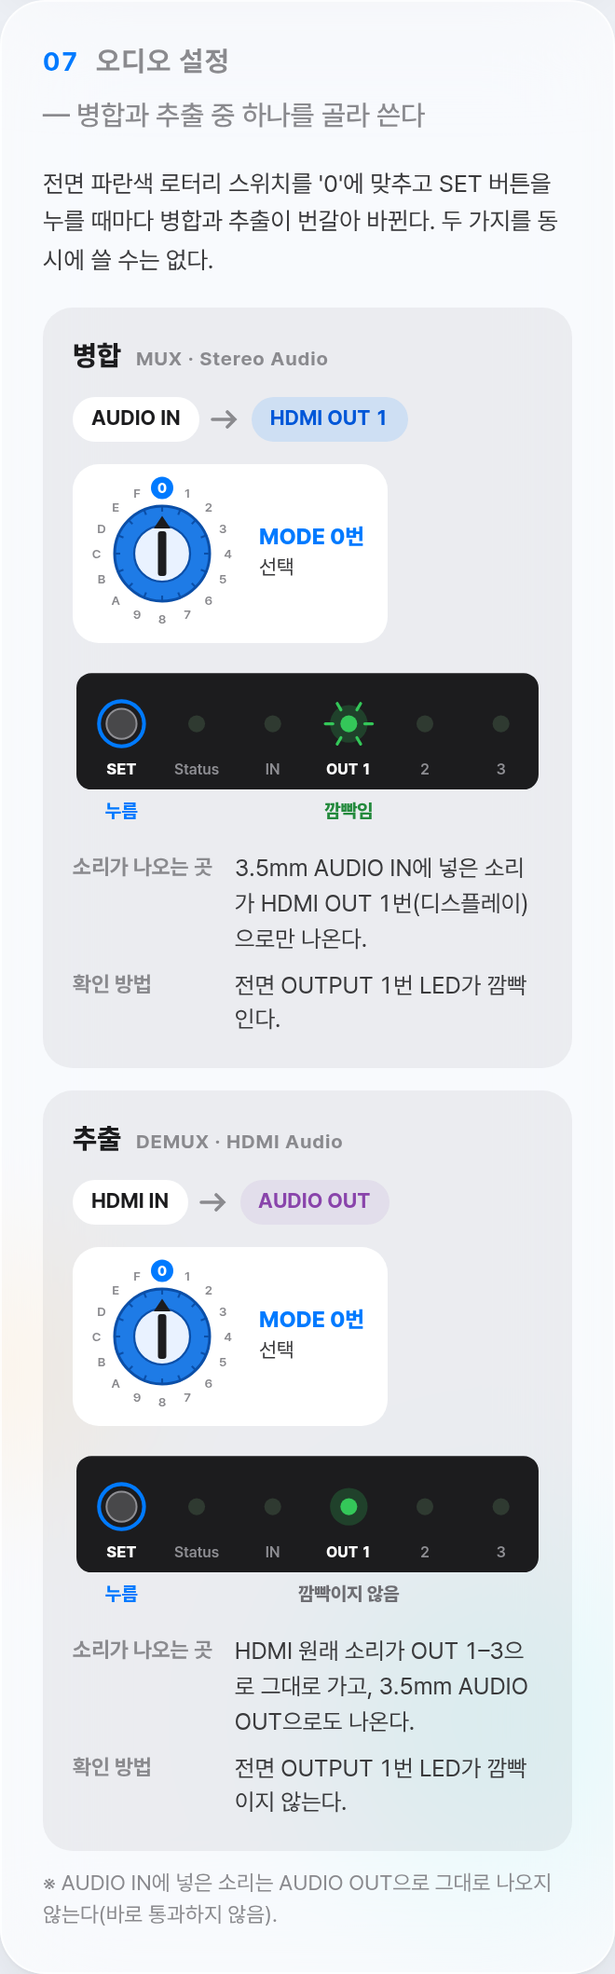
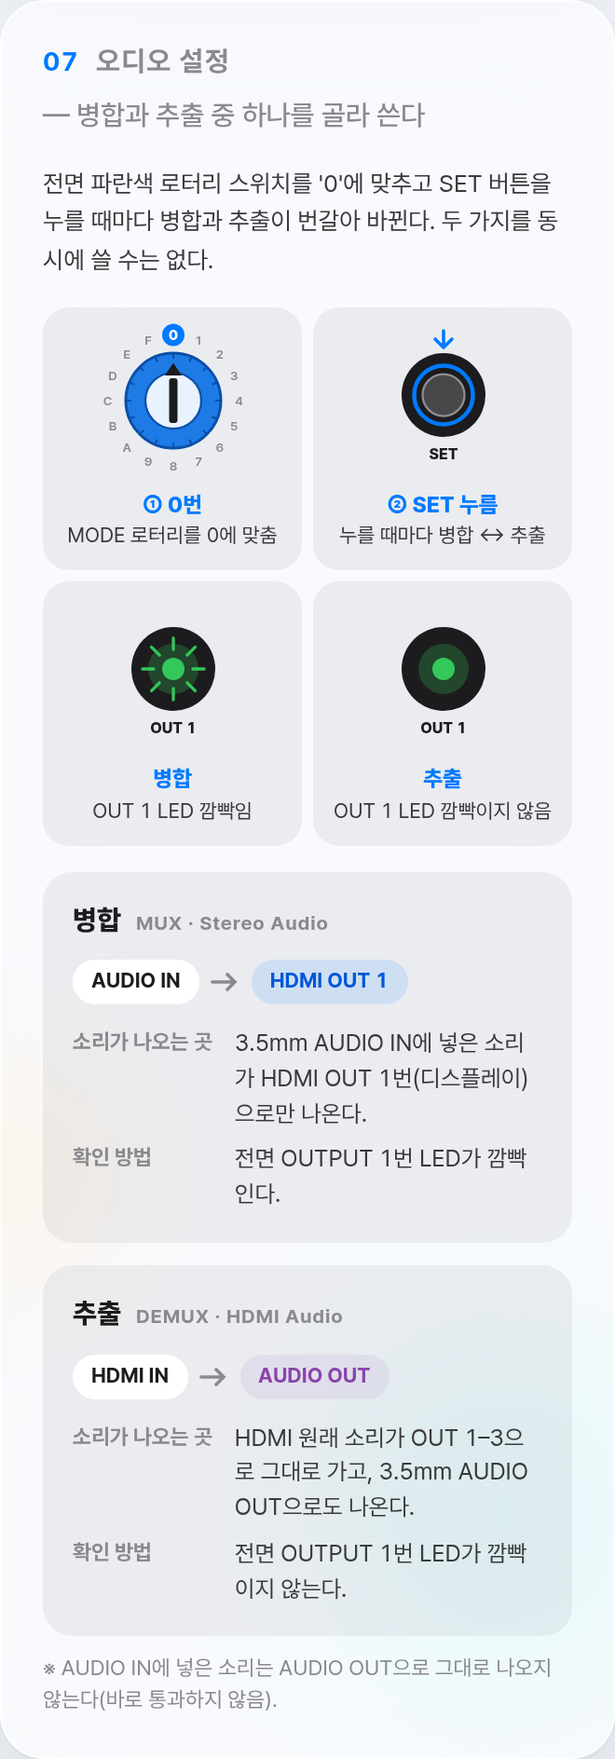
style: HD-13U 오디오 설정을 EDID 대표 설정과 같은 칸 4개로 통일
- ① MODE 로터리 0번(분배기 EDID 로터리 그림 그대로) → ② SET 누름 → 병합 OUT 1 깜빡임 → 추출 OUT 1 깜빡이지 않음
- 병합·추출 칸 안의 어두운 패널 그림과 쓰지 않는 rotaryGraphic 선택(dark·box) 삭제
- e2e: 오디오 순서 칸 4개·깜빡임 1개·화면 읽기 이름 확인, EDID 로터리 확인은 EDID 카드로 한정

Claude-Session: https://claude.ai/code/session_01V3dms2CC6NHWtyRSKKrJnV

diff --git a/src/products.js b/src/products.js
@@ -529,7 +529,7 @@
     // ---- 전면 컨트롤 강조(EDID 로터리 스위치 등, 0.35). edidSwitch가 있을 때만 전체 폭 카드로 보여준다 ----
     // ---- EDID 로터리 대표 설정 그림(0.59, 사용자 요청 "EDID 로터리 스위치도 대표적인 것을 DIP 스위치처럼 예상 이미지 만들어봐줘") ----
     // 제품 사진과 같은 파란 16단(0~F) 로터리를 그리고, 화살표가 고른 코드를 가리키게 한다. 0이 위쪽이고 시계 방향으로 1, 2 … F 순서다.
-    // opts.name: 화면 읽기 이름(기본 "EDID 로터리", 오디오 설정은 "MODE 로터리"). opts.dark·opts.box: 어두운 패널 안에 넣을 때 쓰는 선택(현재 미사용).
+    // opts.name: 화면 읽기 이름(기본 "EDID 로터리", 오디오 설정은 "MODE 로터리").
     function rotaryGraphic(code,opts={}){
       const idx=parseInt(code,16);
       const S=112,c=S/2,labels='0123456789ABCDEF'.split('');
@@ -539,8 +539,7 @@
       body+=`<circle cx="${c}" cy="${c}" r="20" fill="#E9F2FF" stroke="#0B4FA8" stroke-width="1.5"/>`;
       const deg=idx*22.5;
       body+=`<g transform="rotate(${deg} ${c} ${c})"><rect x="${c-3}" y="${c-16}" width="6" height="32" rx="2" fill="#1C1C1E"/><path d="M${c} ${c-27}l-6 9h12z" fill="#1C1C1E"/></g>`;
-      labels.forEach((label,i)=>{const [x,y]=at(i,47);const on=i===idx;body+=on?`<circle cx="${x.toFixed(1)}" cy="${y.toFixed(1)}" r="8" fill="#007AFF"/><text x="${x.toFixed(1)}" y="${(y+3.5).toFixed(1)}" text-anchor="middle" font-size="10" font-weight="800" fill="#fff">${label}</text>`:`<text x="${x.toFixed(1)}" y="${(y+3.2).toFixed(1)}" text-anchor="middle" font-size="9" font-weight="600" fill="${opts.dark?'#C7C7CC':'#8A8A8E'}">${label}</text>`;});
-      if(opts.box){const [bx,by,bs]=opts.box;return `<svg x="${bx}" y="${by}" width="${bs}" height="${bs}" viewBox="0 0 ${S} ${S}">${body}</svg>`;}
+      labels.forEach((label,i)=>{const [x,y]=at(i,47);const on=i===idx;body+=on?`<circle cx="${x.toFixed(1)}" cy="${y.toFixed(1)}" r="8" fill="#007AFF"/><text x="${x.toFixed(1)}" y="${(y+3.5).toFixed(1)}" text-anchor="middle" font-size="10" font-weight="800" fill="#fff">${label}</text>`:`<text x="${x.toFixed(1)}" y="${(y+3.2).toFixed(1)}" text-anchor="middle" font-size="9" font-weight="600" fill="#8A8A8E">${label}</text>`;});
       return `<svg viewBox="0 0 ${S} ${S}" width="${S}" height="${S}" role="img" aria-label="${esc(opts.name||'EDID 로터리')} ${esc(code)}번">${body}</svg>`;
     }
     // 대표 설정: 기본값 코드(edidSwitch.default의 "0 = …" 앞 글자)와 자주 쓰는 코드(table[].highlight)를 코드 순으로 최대 4개 보여준다.
@@ -605,28 +604,30 @@
     }
     // ---- 오디오 설정(병합 MUX·추출 DEMUX 중 선택, HD-13U). 매뉴얼 문장을 "이럴 때·연결·소리가 나오는 곳·확인 방법"으로 풀어 두 칸으로 보여준다 ----
     // HDS-21U·HDS-42MU는 딥 스위치 1번으로 고르므로 이 카드 대신 딥 스위치 설정 카드에서 함께 설명한다(사용자 요청 2026-09-27).
-    // ---- 오디오 설정 전면 패널 그림(0.61, 사용자 요청 "HD-13U 07 오디오 설정 부분을 DIP 이미지처럼 불 켜짐을 만들어줘") ----
-    // 로터리를 panel.rotary.value에 맞추고 SET 버튼을 누르는 모습과, 확인용 LED(panel.target)가 깜빡이는지(mode.led "blink") 켜진 채인지("steady")를 그린다.
+    // ---- 오디오 설정 순서 그림(0.61, 사용자 요청 "DIP 이미지처럼 불 켜짐", "분배기 로터리 이미지 그대로 활용해줘, 통일감이 없어") ----
+    // EDID 설정 카드의 대표 설정 줄(rt-pg-rotary-row·rt-pg-rotary 칸, 112px 그림, 파란 글자 캡션)을 그대로 쓴다.
+    // ① MODE 로터리를 panel.rotary.value에 맞춤 → ② SET 누름 → ③④ 모드별 확인 LED(panel.target)가 깜빡임(led "blink") / 깜빡이지 않음("steady").
     // 깜빡임은 CSS 애니메이션(rt-pg-led-blink)으로 보여주고, 움직임 줄이기 설정이나 인쇄에서도 알 수 있게 LED 둘레에 빛 표시를 함께 그린다.
-    function audioPanelGraphic(panel,mode){
-      const leds=panel.leds||[];
-      // 로터리는 EDID 설정 카드의 대표 설정 그림과 똑같은 밝은 칸(rt-pg-rotary)으로 따로 두고, 어두운 패널에는 SET 버튼과 LED만 그린다(사용자 요청 2026-09-27 "이 느낌 로터리 써줘").
-      const value=String(panel.rotary?.value??'0').toUpperCase();
-      const W=250,H=92,py=8,ph=62,cy=py+ph/2-4,labelY=py+ph-8,bx=26;
-      let body=`<rect x="2" y="${py}" width="${W-4}" height="${ph}" rx="8" fill="#1C1C1E"/>`;
-      body+=`<circle cx="${bx}" cy="${cy}" r="8" fill="#48484A" stroke="#8E8E93" stroke-width="1"/><circle cx="${bx}" cy="${cy}" r="12" fill="none" stroke="#007AFF" stroke-width="2"/>`;
-      body+=`<text x="${bx}" y="${labelY}" text-anchor="middle" font-size="8.5" font-weight="800" fill="#fff">${esc(panel.button||'SET')}</text><text x="${bx}" y="${py+ph+15}" text-anchor="middle" font-size="10" font-weight="800" fill="#007AFF">누름</text>`;
-      const x0=66,gap=(W-22-x0)/Math.max(1,leds.length-1);
-      leds.forEach((label,i)=>{
-        const x=x0+i*gap,on=label===panel.target,blink=on&&mode.led==='blink';
-        if(on)body+=`<circle cx="${x}" cy="${cy}" r="10" fill="#34C759" opacity=".22"/>`;
-        if(blink)body+=`<g stroke="#34C759" stroke-width="1.6" stroke-linecap="round">${[0,60,120,180,240,300].map(a=>{const r1=8.5,r2=12.5,rad=a*Math.PI/180;return `<path d="M${(x+r1*Math.cos(rad)).toFixed(1)} ${(cy+r1*Math.sin(rad)).toFixed(1)}L${(x+r2*Math.cos(rad)).toFixed(1)} ${(cy+r2*Math.sin(rad)).toFixed(1)}"/>`}).join('')}</g>`;
-        body+=`<circle cx="${x}" cy="${cy}" r="4.5" fill="${on?'#34C759':'#2F3A31'}"${blink?' class="rt-pg-led-blink"':''}/>`;
-        body+=`<text x="${x}" y="${labelY}" text-anchor="middle" font-size="8" font-weight="${on?800:600}" fill="${on?'#fff':'#8E8E93'}">${esc(label)}</text>`;
-        if(on)body+=`<text x="${x}" y="${py+ph+15}" text-anchor="middle" font-size="10" font-weight="800" fill="${blink?'#248A3D':'#6E6E73'}">${blink?'깜빡임':'깜빡이지 않음'}</text>`;
-      });
-      const label=`${panel.rotary?.label||'MODE'} 로터리 ${value}번 + ${panel.button||'SET'} 누름 → ${panel.target} LED ${mode.led==='blink'?'깜빡임':'깜빡이지 않음'}`;
-      return `<div class="rt-pg-audio-panelrow" role="img" aria-label="${esc(label)}"><figure class="rt-pg-rotary rt-pg-rotary-mini">${rotaryGraphic(value,{name:`${panel.rotary?.label||'MODE'} 로터리`})}<figcaption><em>${esc(panel.rotary?.label||'MODE')} ${esc(value)}번</em>선택</figcaption></figure><span class="rt-pg-audio-plus" aria-hidden="true">+</span><svg class="rt-pg-audio-panel" viewBox="0 0 ${W} ${H}" aria-hidden="true">${body}</svg></div>`;
+    function setButtonGraphic(label){
+      const S=112,c=S/2;
+      const body=`<circle cx="${c}" cy="${c-4}" r="30" fill="#1C1C1E"/><circle cx="${c}" cy="${c-4}" r="15" fill="#48484A" stroke="#8E8E93" stroke-width="1.5"/><circle cx="${c}" cy="${c-4}" r="21" fill="none" stroke="#007AFF" stroke-width="3"/><path d="M${c} ${c-50}v12M${c-6} ${c-44}l6 6 6-6" fill="none" stroke="#007AFF" stroke-width="2.4" stroke-linecap="round" stroke-linejoin="round"/><text x="${c}" y="${c+42}" text-anchor="middle" font-size="11" font-weight="800" fill="#1C1C1E">${esc(label)}</text>`;
+      return `<svg viewBox="0 0 ${S} ${S}" width="${S}" height="${S}" role="img" aria-label="${esc(label)} 버튼 누름">${body}</svg>`;
+    }
+    function ledGraphic(label,blink){
+      const S=112,c=S/2,cy=c-4;
+      let body=`<circle cx="${c}" cy="${cy}" r="30" fill="#1C1C1E"/><circle cx="${c}" cy="${cy}" r="18" fill="#34C759" opacity=".25"/>`;
+      if(blink)body+=`<g stroke="#34C759" stroke-width="2.2" stroke-linecap="round">${[0,45,90,135,180,225,270,315].map(a=>{const r1=14,r2=22,rad=a*Math.PI/180;return `<path d="M${(c+r1*Math.cos(rad)).toFixed(1)} ${(cy+r1*Math.sin(rad)).toFixed(1)}L${(c+r2*Math.cos(rad)).toFixed(1)} ${(cy+r2*Math.sin(rad)).toFixed(1)}"/>`}).join('')}</g>`;
+      body+=`<circle cx="${c}" cy="${cy}" r="8" fill="#34C759"${blink?' class="rt-pg-led-blink"':''}/><text x="${c}" y="${c+42}" text-anchor="middle" font-size="11" font-weight="800" fill="#1C1C1E">${esc(label)}</text>`;
+      return `<svg viewBox="0 0 ${S} ${S}" width="${S}" height="${S}" role="img" aria-label="${esc(label)} LED ${blink?'깜빡임':'깜빡이지 않음'}">${body}</svg>`;
+    }
+    function audioStepsRow(am){
+      const pn=am.panel;
+      if(!pn)return '';
+      const value=String(pn.rotary?.value??'0').toUpperCase(),rlabel=pn.rotary?.label||'MODE';
+      const tiles=[`<figure class="rt-pg-rotary">${rotaryGraphic(value,{name:`${rlabel} 로터리`})}<figcaption><em>① ${esc(value)}번</em>${esc(rlabel)} 로터리를 ${esc(value)}에 맞춤</figcaption></figure>`,
+        `<figure class="rt-pg-rotary">${setButtonGraphic(pn.button||'SET')}<figcaption><em>② ${esc(pn.button||'SET')} 누름</em>누를 때마다 병합 ↔ 추출</figcaption></figure>`,
+        ...am.modes.filter(mode=>mode.led).map(mode=>`<figure class="rt-pg-rotary rt-pg-audio-step-${mode.led}">${ledGraphic(pn.target,mode.led==='blink')}<figcaption><em>${esc(mode.title)}</em>${esc(pn.target)} LED ${mode.led==='blink'?'깜빡임':'깜빡이지 않음'}</figcaption></figure>`)];
+      return `<div class="rt-pg-rotary-row rt-pg-audio-steps" aria-label="오디오 병합·추출 전환 순서">${tiles.join('')}</div>`;
     }
     function audioMuxSection(item){
       const am=item.audioMux;
@@ -635,10 +636,10 @@
       const arrow='<svg viewBox="0 0 16 10" width="16" height="10" aria-hidden="true"><path d="M1 5h12M9 1l4 4-4 4" fill="none" stroke="currentColor" stroke-width="1.8" stroke-linecap="round"/></svg>';
       return `<section class="rt-pg-card rt-pg-audio" style="margin-top:18px"><h2><span class="rt-pg-idx">${idx}</span>오디오 설정 <span class="rt-pg-note">— 병합과 추출 중 하나를 골라 쓴다</span></h2>
         ${am.howTo?`<p class="rt-pg-audio-how">${esc(am.howTo)}</p>`:''}
+        ${audioStepsRow(am)}
         <div class="rt-pg-audio-modes">${am.modes.map(mode=>`<div class="rt-pg-audio-mode rt-pg-audio-${mode.name==='MUX'?'mux':'demux'}">
           <div class="rt-pg-audio-head"><b>${esc(mode.title)}</b><small>${esc(mode.name)}${mode.setting?` · ${esc(mode.setting)}`:''}</small></div>
           ${mode.flow?.length?`<div class="rt-pg-audio-flow">${mode.flow.map(step=>`<span>${esc(step)}</span>`).join(arrow)}</div>`:''}
-          ${am.panel&&mode.led?audioPanelGraphic(am.panel,mode):''}
           <dl>${mode.rows.map(row=>`<dt>${esc(row.label)}</dt><dd>${esc(row.text)}</dd>`).join('')}</dl>
         </div>`).join('')}</div>
         ${am.note?`<p class="rt-pg-hint">※ ${esc(am.note)}</p>`:''}

diff --git a/src/styles.css b/src/styles.css
@@ -857,13 +857,9 @@ html{background:#f3f3ef}body{margin:0;padding:24px 16px;font-family:Arial,'Malgu
 #rtcom-design .rt-pg-spec-table th,#rtcom-design .rt-pg-spec-table td{padding-top:6px;padding-bottom:6px}
 #rtcom-design .rt-pg-spec-table td .rt-pg-note-line{margin-top:2px}
 
-/* 0.61 오디오 설정 전면 패널 그림(LED 불 켜짐) */
-#rtcom-design .rt-pg-audio-panelrow{display:flex;align-items:center;gap:8px;margin:0 0 12px}
-#rtcom-design .rt-pg-rotary-mini{flex:0 0 auto;background:#fff;padding:8px 8px 10px}
-#rtcom-design .rt-pg-rotary-mini svg{width:96px;height:96px}
-#rtcom-design .rt-pg-audio-plus{flex:0 0 auto;font-size:18px;font-weight:800;color:var(--pg-muted)}
-#rtcom-design .rt-pg-audio-panel{display:block;flex:1 1 auto;min-width:0;max-width:300px;height:auto}
-@media(max-width:720px){#rtcom-design .rt-pg-audio-panelrow{flex-wrap:wrap}#rtcom-design .rt-pg-audio-plus{display:none}#rtcom-design .rt-pg-audio-panel{flex-basis:100%;max-width:none}#rtcom-design .rt-pg-rotary-mini{flex-direction:row;gap:10px;padding:6px 12px 6px 6px;text-align:left}#rtcom-design .rt-pg-rotary-mini svg{width:84px;height:84px}}
+/* 0.61 오디오 설정 순서 그림(EDID 대표 설정 칸과 같은 모양: 로터리 → SET → LED 불 켜짐) */
+#rtcom-design .rt-pg-audio-steps{margin:0 0 14px}
+@media(max-width:720px){#rtcom-design .rt-pg-audio-steps{grid-template-columns:repeat(2,1fr)}}
 #rtcom-design .rt-pg-led-blink{animation:rt-pg-led-blink 1s steps(1,end) infinite}
 @keyframes rt-pg-led-blink{50%{fill:#2F3A31}}
 @media (prefers-reduced-motion:reduce){#rtcom-design .rt-pg-led-blink{animation:none}}

diff --git a/CLAUDE.md b/CLAUDE.md
@@ -50,7 +50,7 @@
 
 - 현재 화면 버전은 `index.html`의 우측 상단 표기와 `README.md`에 함께 기록합니다.
 - 원본 `main`에 기능 묶음을 병합할 때 마이너 버전을 올리고, 같은 커밋에서 `CHANGELOG.md`를 갱신합니다.
-- 구성기 단일 화면 전환은 `0.7.0`, Analog Way 방식 화면 개편은 `0.8.0`, 전송기 자동 연동은 `0.9.0`, HDMI 카드 PSE 쌍 연장은 `0.10.0`, SPX 매뉴얼 사진 슬롯은 `0.11.0`, VDM-256X 추가는 `0.12.0`, VDM 매뉴얼 후면 도면 슬롯은 `0.13.0`, 휴대폰 슬롯 겹침·뒤로가기 수정은 `0.14.0`, VDM 전면 도면은 `0.15.0`, 사진 슬롯 판넬 잘림 수정은 `0.16.0`, 장착 슬롯 번호표 숨김·구성 요약 카드 확대는 `0.17.0`, XDM 판넬 손나사 잘림 수정·VDM 전송기 연동·로고 홈 이동 확인은 `0.18.0`, 알티컴 공개 제품정보(29종) 재게시는 `0.19.0`, 제품정보 상세 표기를 에이앤미디어(antez.co.kr) 방식으로 정리한 것은 `0.20.0`, 데이터 기반 연결 다이어그램 추가는 `0.21.0`, 제품 사양 표를 구분·사양 2단으로 정리한 것은 `0.22.0`, 휴대폰 가로 스크롤(긴 출처 경로) 수정은 `0.23.0`, HD-14U·HD-18U 모델명 정정과 VDM CT102-U·FT102-U 계열 제외는 `0.24.0`, 제조사 카탈로그 원본 연결 다이어그램 적용은 `0.25.0`, 제품 사양 표 디자인(분류 색 점) 다듬기는 `0.26.0`, 새 카탈로그로 나머지 25종 재검증·XDM-CTR100 조합 다이어그램은 `0.27.0`, 연결 다이어그램 가로 스크롤 안내(그러데이션 표시)와 XDM-CTR100 케이블별 최대 전송거리(CI6522 80m) 추가는 `0.28.0`, VDM HOS4-U·HOS4S-UW 카드 설명을 스위칭 방식(일반·심리스)으로 정리하고 XDM-288을 구성기에서 삭제한 것은 `0.29.0`, XDM-CTR100 연결 다이어그램 조합 1을 매트릭스 카드 직결 배선으로 바로잡고 제조사 원본 다이어그램에 출처 캡션·표기 다름 경고를 추가하고 6개 제품과 SPX 다이어그램을 다시 잘라낸 것은 `0.30.0`, VDM 전송기 4종(CT101-U/CR101-U·CT103-U-H/CR103-U·FT101-U/FR101-U·FT103-U-H/FR103-U)에 RS-232 단자 행을 추가하고 이 4종과 CT104-U/CR104-U를 46쪽판과 재대조하고 27종 전체의 카탈로그 쪽 표기를 46쪽판 기준으로 통일한 것은 `0.31.0`, `docs/audit/PRODUCT_DIAGRAM_REVIEW_2026-09-27.md` §6 판단표대로 13개 제품의 검토 필요 항목을 정리해 REVIEW REQUIRED 배지를 없앤 것은 `0.32.0`, 제품정보 화면을 사용자 LED 구성기 계승 글래스 디자인으로 개편한 것(`docs/handoff/PRODUCT_GLASS_REDESIGN_SPEC.md` 6-A: 기반·HD-210U·XDM·VDM·SPX)은 `0.33.0`, 나머지 23종(분배기·일체형·전송기·케이블)에 lead·subtitle·portMap을 채우고 분배기·일체형 신호 흐름을 승인 시안 방식으로 바꾸고 QMS 화면 구성 모드(videoModes)를 추가한 것(6-B)은 `0.34.0`, HD-13U 상세에 전면 EDID 로터리 스위치 위치 표시와 EDID 코드표(edidSwitch, 사용자 제공 매뉴얼 근거)를 추가한 것은 `0.35.0`, HD-104U·HD-108U 모델명 표기를 0.24.0 정정 이전으로 되돌리고(사용자 확인 2026-09-27: 카탈로그 표기는 HD-104U·HD-108U이며 실크만 14U·18U로 변경 예정) HD-210U 전면 설정 스위치(딥 스위치·EDID 로터리) 추가와 신호 흐름 매트릭스 판정 복원을 함께 묶은 것은 `0.36.0`, 매트릭스 구성기 화면을 Analog Way 구조 + LED 글래스 스킨으로 개편하고 블랭크 커버(`placements`의 예약값 `"BLANK"`)로 슬롯 구성을 완성하는 기능을 추가한 것(`docs/handoff/CONFIGURATOR_AW_GLASS_SPEC.md`, 사용자 결정 2026-09-27)은 `0.37.0`, 0.37.0에서 시안과 다르게 남겨 둔 04 전송기 화면을 사용자 검토 후 좌우 분할 구조(01·02와 같은 틀)로 다시 지은 것(`docs/implementation/CONFIGURATOR_AW_GLASS.md` "04 전송기(편차 — 0.38.0에서 해소)")은 `0.38.0`, 제품 상세 "01 한눈에 보기" 위에 큰 사진 띠와 누르면 확대되는 돋보기(라이트박스)를 추가하고 화면에 보이는 제품 사양·주요 기능의 "up to" 표기를 "최대"로 통일하고 제품정보 "확인 사항" 118건을 2건으로 정리(HD-210U 크기 355mm 정정, `docs/audit/PRODUCT_ISSUES_ARCHIVE_2026-09-27.md`)한 것은 `0.39.0`, HD-13U "05 주요 기능"에 오디오 병합(믹스)·추출(디먹스) 동시 사용 안내(매뉴얼 7쪽 근거)를 추가한 것은 `0.40.0`, 분배기(HD-13U·HD-104U·HD-108U·HD-210U) EDID 로터리 코드표에서 자주 쓰는 1·7번을 강조하고 "02 신호 흐름"에 오디오 병합·추출(AUDIO OUT·"추출" 표시)을 추가한 것은 `0.41.0`, 사진 없이 입출력 표 카드로만 보이던 7종(HD-D102U·XDM-CTR100·전송기 5종)의 단자 지도를 HD-13U처럼 실제 제품 사진 기준으로 바꾸고 `portMap`이 송신기·수신기 사진 여러 장을 받게 한 것은 `0.42.0`, HDS-21U·HDS-42MU에 EDID 로터리(edidSwitch)를 추가하고 오디오 병합 설명을 "HDMI OUTPUT에 실리는 오디오" 기준으로 정정하고 분배기·선택기 필터를 HDMI 출력 개수 순으로 정렬하고 XDM-CTR100 "02 신호 흐름" 케이블 최대 전송거리 표기를 다이어그램 하단 한쪽으로 모은 것은 `0.43.0`, 분배기·선택기 필터 정렬을 분배기(Splitter)가 먼저 나오고 셀렉터(Switcher)가 나중에 나오도록(같은 종류 안에서는 HDMI 출력 개수 순) 바꾼 것은 `0.44.0`, 사용자 제공 매뉴얼 3권으로 벽부형 XDM-CT103·CT103-U-H/CR103-U·FT103-U-H/FR103-U의 단자 지도·사양·EDID 표를 보완하고 단자 지도에 세로 괄호·표시 폭·안내 줄을 추가한 것은 `0.45.0`, XDM-CTR100 PSE 제품 안내서와 XDM-CTR100 매뉴얼 Ver.1.4로 CTR100 단자 역할(HDMI IN·OUT, 5핀 오디오 출력, 상태 LED)·딥 스위치 설정·PSE 크기·전원을 보완한 것은 `0.46.0`, 옛 PR #22에만 있던 사용자 결정(XDM-CTR100과 XDM-CTR100 PSE를 별도 제품으로 분리해 28종, QMS-88UX 쿼드 뷰 출력 9·10번 사용법, 모델명 줄바꿈 방지)을 현재 main 기준으로 다시 옮기고 HD-13U 오디오 병합·추출을 선택 방식으로 정정해 07 오디오 설정 카드를 추가하고 모든 제품의 단자 지도 번호를 HDMI 입력 → 출력 → 오디오 → … → 전원(마지막) 순으로 통일한 것은 `0.47.0`, QMS-88UX 출력 9·10번 멀티뷰의 12가지 레이아웃·입력 그룹·출력 옵션을 사용자 제공 매뉴얼 20~23쪽 근거로 "주요 기능"에 적은 것은 `0.48.0`, HDS-21U·HDS-42MU 오디오 병합·추출을 딥 스위치 1번 선택 방식으로 정정하고 07 오디오 설정 카드를 추가하고 사용자 제공 매뉴얼 Ver.1.0으로 Priority·분배 기능 딥 스위치를 보완하고 제품 사진 팝업을 사용자 LED 계산기 "05 프로세서" 방식(사진 탭·원형 돋보기)으로 바꾼 것은 `0.49.0`, QMS-88UX "02 신호 흐름"에서 멀티뷰 출력 9·10번을 매트릭스 출력과 분리된 별도 갈래(패널·캡션)로 다시 그리고 "05 주요 기능" 멀티뷰 항목을 요약하고 오디오 출력 2개(QD1·QD2)가 선택 가능한 출력임을 반영한 것은 `0.50.0`, QMS-88UX "04 제품 사양"의 조건 칸(부설)을 모두 비우고 LAN(Telnet & Web Browser) 표기를 사양·기능·개요·단자 지도에서 모두 뺀 것은 `0.51.0`, HDS-42MU 크기를 사용자 결정에 따라 매뉴얼 값 232×65×30mm로 바꾸고 제품 상세의 "자료 출처·검토 기록"을 "제조사 자료"로 이름을 바꿔 화면의 출처 표시를 뺀 것은 `0.52.0`, QMS-88UX 오디오 QD1·QD2 설명 정리·"02 신호 흐름" 오디오 추출 점선과 멀티뷰 8입력분할 표현 정리·입출력 단자 표 정렬 통일(TX→구분 없음→RX, 영상→오디오→전송→제어, 입력→출력→양방향)·"제조사 자료"에서 표기 다름·참고 사항도 추가로 뺀 것과 조건 칸의 출처 문구를 지우고 "05 주요 기능"을 한 줄 요약으로 줄인 것(상세는 06·07 카드·사양·단자 지도로 이동)은 `0.53.0`, XDM-CTR100·CTR100 PSE "04 제품 사양"의 딥 스위치 행을 다시 삭제(딥 스위치는 05 주요 기능에서만 안내)하고 전 제품 "05 주요 기능"을 추가로 압축하고 매트릭스 COS/CIS/FIS/FOS 카드와 짝인 전송기 3종(XDM-CTR100·CTR100 PSE·FT101/FR101)에 RS-232+ 패스스루(AMX 등 통합 제어 신호를 매트릭스·전송기 너머로 전달) 안내를 추가하고 "02 신호 흐름"의 케이블 최대 전송거리 표기를 범례 "출력" 항목 오른쪽으로 옮긴 것은 `0.54.0`, 구성기 확인 창을 사이트 글래스 스타일 대화상자로 바꾸고 카드 팝업에 수량 채우기와 같은 방향 슬롯 이동(끌어 옮기기·팝업 이동)을 추가하고 XDM 세로 슬롯 카드를 180도 돌리고 2U 이상만 정면·후면 버튼(그보다 작으면 정면 사진과 포트 연결면을 함께 표시)으로 하고 구성기 작업 단계 표기를 한글로 바꾸고 Delete 키 카드 빼기와 XDM RS-232+(CIS·COS·FIS·FOS 카드와 짝 전송기) 표기를 더한 것은 `0.55.0`, 전 제품 "05 주요 기능" 카탈로그 어투 통일("~ 지원")·"01 한눈에 보기" 위 사진 띠 삭제·"02 신호 흐름"과 "03 단자 지도" 순서 교체 및 영문 표기(Signal Flow·Port Map)·화면 구성 모드 등 06 카드를 05 옆으로 배치·QMS-88UX 06 화면 구성 모드 레이아웃 12종 클릭 미리보기 추가·HDS-21U·HDS-42MU 단자 지도를 정면·후면 선택 버튼 없이 위아래 합성 사진 한 장(번호 1~7, EDID 로터리 6번·전원 7번)으로 바꾼 것은 `0.56.0`, 05 옆으로 옮긴 06 카드가 휴대폰에서 01보다 먼저 뜨던 순서 버그를 고치고(rt-pg-col-mobile-6 클래스 추가) 15개 제품 "05 주요 기능"의 "~할 수 있다." 표현 24곳을 명사형으로 정리한 것은 `0.57.0`, HDS-21U·HDS-42MU 단자 지도에 MODE 딥 스위치 번호(7번)를 추가하고 07 오디오 설정 카드를 딥 스위치 그림(번호별 OFF·ON) 카드인 07 딥 스위치 설정으로 바꾸고(1번 오디오 병합·추출, 2번 Priority, 42MU만 3번 분배) 04 제품 사양의 딥 스위치 행과 05 주요 기능의 긴 설명을 이 카드로 옮기고 매트릭스 제품(QMS-44UX·QMS-88UX·HDS-42MU) "03 Signal Flow"를 입력이 한 점으로 모이는 모양 대신 크로스포인트(출력마다 입력 선택 예시)로 다시 그리고 HDS-42MU 정면 사진의 잘못 인쇄된 실크(MODE·EDID)를 사진 안에서 서로 바꾼 것은 `0.58.0`, EDID 로터리 태그 잘림·06 EDID 카드 배치·긴 코드표 좌우 분할을 고치고 EDID 설정 카드에 기본값·자주 쓰는 코드를 파란 16단 로터리 그림(화살표가 코드를 가리킴)으로 보여주고 HDS-21U·HDS-42MU(3·9번)·FT103-U-H/FR103-U(3·6번)에 자주 쓰는 코드 강조를 더하고 EDID 코드표 세로 크기를 줄인 것은 `0.59.0`, 04 제품 사양 표 줄 간격을 약 15% 줄이고 03 Signal Flow에서 AUDIO OUT "추출" 표시가 잘리던 그림 너비 계산을 고친 것은 `0.60.0`, HD-13U 07 오디오 설정을 06 EDID 다음 전체 폭으로 옮겨 잘림·번호 뒤집힘을 고치고 병합·추출 칸에 전면 패널 그림(MODE 0 + SET, OUT 1 LED 깜빡임·깜빡이지 않음)을 넣고 HD-210U에 매뉴얼 Ver.1.2 근거 07 딥 스위치 설정 카드(1번 오디오 병합, 2번 DDC)를 추가한 것은 `0.61.0`으로 기록했습니다. 다음 기능 묶음은 `0.62.0`을 목표로 하며, 실제 병합 전에는 검증된 canonical main commit을 확인합니다.
+- 구성기 단일 화면 전환은 `0.7.0`, Analog Way 방식 화면 개편은 `0.8.0`, 전송기 자동 연동은 `0.9.0`, HDMI 카드 PSE 쌍 연장은 `0.10.0`, SPX 매뉴얼 사진 슬롯은 `0.11.0`, VDM-256X 추가는 `0.12.0`, VDM 매뉴얼 후면 도면 슬롯은 `0.13.0`, 휴대폰 슬롯 겹침·뒤로가기 수정은 `0.14.0`, VDM 전면 도면은 `0.15.0`, 사진 슬롯 판넬 잘림 수정은 `0.16.0`, 장착 슬롯 번호표 숨김·구성 요약 카드 확대는 `0.17.0`, XDM 판넬 손나사 잘림 수정·VDM 전송기 연동·로고 홈 이동 확인은 `0.18.0`, 알티컴 공개 제품정보(29종) 재게시는 `0.19.0`, 제품정보 상세 표기를 에이앤미디어(antez.co.kr) 방식으로 정리한 것은 `0.20.0`, 데이터 기반 연결 다이어그램 추가는 `0.21.0`, 제품 사양 표를 구분·사양 2단으로 정리한 것은 `0.22.0`, 휴대폰 가로 스크롤(긴 출처 경로) 수정은 `0.23.0`, HD-14U·HD-18U 모델명 정정과 VDM CT102-U·FT102-U 계열 제외는 `0.24.0`, 제조사 카탈로그 원본 연결 다이어그램 적용은 `0.25.0`, 제품 사양 표 디자인(분류 색 점) 다듬기는 `0.26.0`, 새 카탈로그로 나머지 25종 재검증·XDM-CTR100 조합 다이어그램은 `0.27.0`, 연결 다이어그램 가로 스크롤 안내(그러데이션 표시)와 XDM-CTR100 케이블별 최대 전송거리(CI6522 80m) 추가는 `0.28.0`, VDM HOS4-U·HOS4S-UW 카드 설명을 스위칭 방식(일반·심리스)으로 정리하고 XDM-288을 구성기에서 삭제한 것은 `0.29.0`, XDM-CTR100 연결 다이어그램 조합 1을 매트릭스 카드 직결 배선으로 바로잡고 제조사 원본 다이어그램에 출처 캡션·표기 다름 경고를 추가하고 6개 제품과 SPX 다이어그램을 다시 잘라낸 것은 `0.30.0`, VDM 전송기 4종(CT101-U/CR101-U·CT103-U-H/CR103-U·FT101-U/FR101-U·FT103-U-H/FR103-U)에 RS-232 단자 행을 추가하고 이 4종과 CT104-U/CR104-U를 46쪽판과 재대조하고 27종 전체의 카탈로그 쪽 표기를 46쪽판 기준으로 통일한 것은 `0.31.0`, `docs/audit/PRODUCT_DIAGRAM_REVIEW_2026-09-27.md` §6 판단표대로 13개 제품의 검토 필요 항목을 정리해 REVIEW REQUIRED 배지를 없앤 것은 `0.32.0`, 제품정보 화면을 사용자 LED 구성기 계승 글래스 디자인으로 개편한 것(`docs/handoff/PRODUCT_GLASS_REDESIGN_SPEC.md` 6-A: 기반·HD-210U·XDM·VDM·SPX)은 `0.33.0`, 나머지 23종(분배기·일체형·전송기·케이블)에 lead·subtitle·portMap을 채우고 분배기·일체형 신호 흐름을 승인 시안 방식으로 바꾸고 QMS 화면 구성 모드(videoModes)를 추가한 것(6-B)은 `0.34.0`, HD-13U 상세에 전면 EDID 로터리 스위치 위치 표시와 EDID 코드표(edidSwitch, 사용자 제공 매뉴얼 근거)를 추가한 것은 `0.35.0`, HD-104U·HD-108U 모델명 표기를 0.24.0 정정 이전으로 되돌리고(사용자 확인 2026-09-27: 카탈로그 표기는 HD-104U·HD-108U이며 실크만 14U·18U로 변경 예정) HD-210U 전면 설정 스위치(딥 스위치·EDID 로터리) 추가와 신호 흐름 매트릭스 판정 복원을 함께 묶은 것은 `0.36.0`, 매트릭스 구성기 화면을 Analog Way 구조 + LED 글래스 스킨으로 개편하고 블랭크 커버(`placements`의 예약값 `"BLANK"`)로 슬롯 구성을 완성하는 기능을 추가한 것(`docs/handoff/CONFIGURATOR_AW_GLASS_SPEC.md`, 사용자 결정 2026-09-27)은 `0.37.0`, 0.37.0에서 시안과 다르게 남겨 둔 04 전송기 화면을 사용자 검토 후 좌우 분할 구조(01·02와 같은 틀)로 다시 지은 것(`docs/implementation/CONFIGURATOR_AW_GLASS.md` "04 전송기(편차 — 0.38.0에서 해소)")은 `0.38.0`, 제품 상세 "01 한눈에 보기" 위에 큰 사진 띠와 누르면 확대되는 돋보기(라이트박스)를 추가하고 화면에 보이는 제품 사양·주요 기능의 "up to" 표기를 "최대"로 통일하고 제품정보 "확인 사항" 118건을 2건으로 정리(HD-210U 크기 355mm 정정, `docs/audit/PRODUCT_ISSUES_ARCHIVE_2026-09-27.md`)한 것은 `0.39.0`, HD-13U "05 주요 기능"에 오디오 병합(믹스)·추출(디먹스) 동시 사용 안내(매뉴얼 7쪽 근거)를 추가한 것은 `0.40.0`, 분배기(HD-13U·HD-104U·HD-108U·HD-210U) EDID 로터리 코드표에서 자주 쓰는 1·7번을 강조하고 "02 신호 흐름"에 오디오 병합·추출(AUDIO OUT·"추출" 표시)을 추가한 것은 `0.41.0`, 사진 없이 입출력 표 카드로만 보이던 7종(HD-D102U·XDM-CTR100·전송기 5종)의 단자 지도를 HD-13U처럼 실제 제품 사진 기준으로 바꾸고 `portMap`이 송신기·수신기 사진 여러 장을 받게 한 것은 `0.42.0`, HDS-21U·HDS-42MU에 EDID 로터리(edidSwitch)를 추가하고 오디오 병합 설명을 "HDMI OUTPUT에 실리는 오디오" 기준으로 정정하고 분배기·선택기 필터를 HDMI 출력 개수 순으로 정렬하고 XDM-CTR100 "02 신호 흐름" 케이블 최대 전송거리 표기를 다이어그램 하단 한쪽으로 모은 것은 `0.43.0`, 분배기·선택기 필터 정렬을 분배기(Splitter)가 먼저 나오고 셀렉터(Switcher)가 나중에 나오도록(같은 종류 안에서는 HDMI 출력 개수 순) 바꾼 것은 `0.44.0`, 사용자 제공 매뉴얼 3권으로 벽부형 XDM-CT103·CT103-U-H/CR103-U·FT103-U-H/FR103-U의 단자 지도·사양·EDID 표를 보완하고 단자 지도에 세로 괄호·표시 폭·안내 줄을 추가한 것은 `0.45.0`, XDM-CTR100 PSE 제품 안내서와 XDM-CTR100 매뉴얼 Ver.1.4로 CTR100 단자 역할(HDMI IN·OUT, 5핀 오디오 출력, 상태 LED)·딥 스위치 설정·PSE 크기·전원을 보완한 것은 `0.46.0`, 옛 PR #22에만 있던 사용자 결정(XDM-CTR100과 XDM-CTR100 PSE를 별도 제품으로 분리해 28종, QMS-88UX 쿼드 뷰 출력 9·10번 사용법, 모델명 줄바꿈 방지)을 현재 main 기준으로 다시 옮기고 HD-13U 오디오 병합·추출을 선택 방식으로 정정해 07 오디오 설정 카드를 추가하고 모든 제품의 단자 지도 번호를 HDMI 입력 → 출력 → 오디오 → … → 전원(마지막) 순으로 통일한 것은 `0.47.0`, QMS-88UX 출력 9·10번 멀티뷰의 12가지 레이아웃·입력 그룹·출력 옵션을 사용자 제공 매뉴얼 20~23쪽 근거로 "주요 기능"에 적은 것은 `0.48.0`, HDS-21U·HDS-42MU 오디오 병합·추출을 딥 스위치 1번 선택 방식으로 정정하고 07 오디오 설정 카드를 추가하고 사용자 제공 매뉴얼 Ver.1.0으로 Priority·분배 기능 딥 스위치를 보완하고 제품 사진 팝업을 사용자 LED 계산기 "05 프로세서" 방식(사진 탭·원형 돋보기)으로 바꾼 것은 `0.49.0`, QMS-88UX "02 신호 흐름"에서 멀티뷰 출력 9·10번을 매트릭스 출력과 분리된 별도 갈래(패널·캡션)로 다시 그리고 "05 주요 기능" 멀티뷰 항목을 요약하고 오디오 출력 2개(QD1·QD2)가 선택 가능한 출력임을 반영한 것은 `0.50.0`, QMS-88UX "04 제품 사양"의 조건 칸(부설)을 모두 비우고 LAN(Telnet & Web Browser) 표기를 사양·기능·개요·단자 지도에서 모두 뺀 것은 `0.51.0`, HDS-42MU 크기를 사용자 결정에 따라 매뉴얼 값 232×65×30mm로 바꾸고 제품 상세의 "자료 출처·검토 기록"을 "제조사 자료"로 이름을 바꿔 화면의 출처 표시를 뺀 것은 `0.52.0`, QMS-88UX 오디오 QD1·QD2 설명 정리·"02 신호 흐름" 오디오 추출 점선과 멀티뷰 8입력분할 표현 정리·입출력 단자 표 정렬 통일(TX→구분 없음→RX, 영상→오디오→전송→제어, 입력→출력→양방향)·"제조사 자료"에서 표기 다름·참고 사항도 추가로 뺀 것과 조건 칸의 출처 문구를 지우고 "05 주요 기능"을 한 줄 요약으로 줄인 것(상세는 06·07 카드·사양·단자 지도로 이동)은 `0.53.0`, XDM-CTR100·CTR100 PSE "04 제품 사양"의 딥 스위치 행을 다시 삭제(딥 스위치는 05 주요 기능에서만 안내)하고 전 제품 "05 주요 기능"을 추가로 압축하고 매트릭스 COS/CIS/FIS/FOS 카드와 짝인 전송기 3종(XDM-CTR100·CTR100 PSE·FT101/FR101)에 RS-232+ 패스스루(AMX 등 통합 제어 신호를 매트릭스·전송기 너머로 전달) 안내를 추가하고 "02 신호 흐름"의 케이블 최대 전송거리 표기를 범례 "출력" 항목 오른쪽으로 옮긴 것은 `0.54.0`, 구성기 확인 창을 사이트 글래스 스타일 대화상자로 바꾸고 카드 팝업에 수량 채우기와 같은 방향 슬롯 이동(끌어 옮기기·팝업 이동)을 추가하고 XDM 세로 슬롯 카드를 180도 돌리고 2U 이상만 정면·후면 버튼(그보다 작으면 정면 사진과 포트 연결면을 함께 표시)으로 하고 구성기 작업 단계 표기를 한글로 바꾸고 Delete 키 카드 빼기와 XDM RS-232+(CIS·COS·FIS·FOS 카드와 짝 전송기) 표기를 더한 것은 `0.55.0`, 전 제품 "05 주요 기능" 카탈로그 어투 통일("~ 지원")·"01 한눈에 보기" 위 사진 띠 삭제·"02 신호 흐름"과 "03 단자 지도" 순서 교체 및 영문 표기(Signal Flow·Port Map)·화면 구성 모드 등 06 카드를 05 옆으로 배치·QMS-88UX 06 화면 구성 모드 레이아웃 12종 클릭 미리보기 추가·HDS-21U·HDS-42MU 단자 지도를 정면·후면 선택 버튼 없이 위아래 합성 사진 한 장(번호 1~7, EDID 로터리 6번·전원 7번)으로 바꾼 것은 `0.56.0`, 05 옆으로 옮긴 06 카드가 휴대폰에서 01보다 먼저 뜨던 순서 버그를 고치고(rt-pg-col-mobile-6 클래스 추가) 15개 제품 "05 주요 기능"의 "~할 수 있다." 표현 24곳을 명사형으로 정리한 것은 `0.57.0`, HDS-21U·HDS-42MU 단자 지도에 MODE 딥 스위치 번호(7번)를 추가하고 07 오디오 설정 카드를 딥 스위치 그림(번호별 OFF·ON) 카드인 07 딥 스위치 설정으로 바꾸고(1번 오디오 병합·추출, 2번 Priority, 42MU만 3번 분배) 04 제품 사양의 딥 스위치 행과 05 주요 기능의 긴 설명을 이 카드로 옮기고 매트릭스 제품(QMS-44UX·QMS-88UX·HDS-42MU) "03 Signal Flow"를 입력이 한 점으로 모이는 모양 대신 크로스포인트(출력마다 입력 선택 예시)로 다시 그리고 HDS-42MU 정면 사진의 잘못 인쇄된 실크(MODE·EDID)를 사진 안에서 서로 바꾼 것은 `0.58.0`, EDID 로터리 태그 잘림·06 EDID 카드 배치·긴 코드표 좌우 분할을 고치고 EDID 설정 카드에 기본값·자주 쓰는 코드를 파란 16단 로터리 그림(화살표가 코드를 가리킴)으로 보여주고 HDS-21U·HDS-42MU(3·9번)·FT103-U-H/FR103-U(3·6번)에 자주 쓰는 코드 강조를 더하고 EDID 코드표 세로 크기를 줄인 것은 `0.59.0`, 04 제품 사양 표 줄 간격을 약 15% 줄이고 03 Signal Flow에서 AUDIO OUT "추출" 표시가 잘리던 그림 너비 계산을 고친 것은 `0.60.0`, HD-13U 07 오디오 설정을 06 EDID 다음 전체 폭으로 옮겨 잘림·번호 뒤집힘을 고치고 EDID 대표 설정과 같은 칸 4개(MODE 로터리 0번 → SET 누름 → OUT 1 LED 깜빡임·깜빡이지 않음)를 넣고 HD-210U에 매뉴얼 Ver.1.2 근거 07 딥 스위치 설정 카드(1번 오디오 병합, 2번 DDC)를 추가한 것은 `0.61.0`으로 기록했습니다. 다음 기능 묶음은 `0.62.0`을 목표로 하며, 실제 병합 전에는 검증된 canonical main commit을 확인합니다.
 - 모든 작업은 구현 문서, QA 문서 또는 감사 문서에 근거와 결과를 남깁니다.
 
 ## Git 명령 정책

diff --git a/CHANGELOG.md b/CHANGELOG.md
@@ -15,7 +15,7 @@
 ## 0.61.0
 
 - **HD-13U 07 오디오 설정 잘림 수정**(사용자 지적 "13U 07 오디오가 잘린다"): 오디오 설정 카드(병합·추출 두 칸)가 05 옆 좁은 칸(약 360px)에 들어가 추출 칸 오른쪽이 잘리고, 06 EDID 설정보다 먼저 보여 번호가 07 → 06 순서로 뒤집혔습니다. EDID 설정이 있는 제품은 06 EDID → 07 오디오 순서로 둘 다 전체 폭 아래에 두도록 바꿨습니다(현재 해당 제품은 HD-13U뿐). HD-13U는 병합·추출을 모두 지원하되 하나만 골라 쓰는 방식 그대로입니다.
-- **HD-13U 오디오 설정 전면 패널 그림**(사용자 요청 "HD-13U 07 오디오 설정 부분을 DIP 이미지처럼 불 켜짐을 만들어줘"): 병합·추출 칸마다 전면 패널 그림을 넣었습니다. EDID 설정 카드와 같은 밝은 칸의 16단(0~F) MODE 로터리(0번 선택)와, "+" 뒤 어두운 패널에 SET 버튼(누름)과 Status·IN·OUT 1·2·3 LED를 그리고, 확인용 OUT 1 LED를 병합에서는 깜빡이게(빛 표시 + 1초 깜빡임), 추출에서는 켜진 채 깜빡이지 않게 그렸습니다. 움직임 줄이기 설정에서는 깜빡임 애니메이션 없이 빛 표시로만 구분합니다. 데이터: `audioMux.panel`(`rotary`·`button`·`leds`·`target`), `modes[].led`(`blink`·`steady`), validator 규칙 추가.
+- **HD-13U 오디오 설정 순서 그림**(사용자 요청 "HD-13U 07 오디오 설정 부분을 DIP 이미지처럼 불 켜짐을 만들어줘", "분배기 로터리 이미지 그대로 활용해줘, 통일감이 없어"): 카드 설명 아래에 EDID 설정 카드의 대표 설정 줄과 같은 칸 4개를 두었습니다. ① MODE 로터리 0번(EDID 카드와 같은 16단 로터리 그림) → ② SET 누름 → 병합: OUT 1 LED 깜빡임(빛 표시 + 1초 깜빡임) → 추출: OUT 1 LED 깜빡이지 않음. 움직임 줄이기 설정에서는 애니메이션 없이 빛 표시로만 구분합니다. 데이터: `audioMux.panel`(`rotary`·`button`·`leds`·`target`), `modes[].led`(`blink`·`steady`), validator 규칙 추가.
 - **HD-210U 07 딥 스위치 설정 카드**(사용자 요청 "210U 매뉴얼을 읽고 DIP 스위치 셋팅을 아까처럼 만들어줘"): HD-210U 매뉴얼 Ver.1.2 7쪽 근거로 1번 오디오 병합(OFF: HDMI Audio / ON: 3.5mm Stereo Audio를 모든 출력에 믹스), 2번 DDC 방식(OFF: DDC Buffer / ON: DDC Level Shifter)을 HDS와 같은 OFF·ON 그림 카드로 추가했습니다. 정면 사진의 빨간 MODE 딥 스위치는 레버 3개로 보여 그림도 3개로 그리고, 매뉴얼에 있는 1·2번만 설명합니다. "HD-210U는 병합만 되고 추출(AUDIO OUT)은 없다"를 1번 아래에 적었습니다(사용자 확인).
 - 같은 내용이 겹치지 않도록 HD-210U 04 제품 사양의 "딥 스위치 1·2" 행을 빼고, 05 주요 기능의 딥 스위치 두 문장을 한 줄 요약으로 줄이고, 06 EDID 설정 설명의 딥 스위치 문장을 07 카드 안내로 바꿨습니다.
 - e2e: HD-210U 딥 스위치 카드(2행·그림 4개·07 번호·AUDIO OUT 없음), HD-13U 오디오 설정 위치(전체 폭·06 다음·잘림 없음) 확인 추가. QA: `docs/qa/HD13U_AUDIO_HD210U_DIP_QA_2026-09-27.md`.

diff --git a/docs/qa/HD13U_AUDIO_HD210U_DIP_QA_2026-09-27.md b/docs/qa/HD13U_AUDIO_HD210U_DIP_QA_2026-09-27.md
@@ -21,6 +21,7 @@
 - 데이터: `audioMux.panel` = `{rotary:{label:"MODE",value:"0"}, button:"SET", leds:["Status","IN","OUT 1","2","3"], target:"OUT 1"}`, `modes[].led` = `blink`(병합)·`steady`(추출). validator가 `target`이 `leds`에 있는지, `led` 값이 둘 중 하나인지 검사합니다.
 - 로터리 그림 교체(사용자 요청 "MODE 로터리 스위치를 0으로 선택하고 SET 버튼이야. MODE 글자 위 기존 로터리로 변경해줘"): 처음의 작은 손잡이 그림 대신 EDID 설정 카드와 같은 16단(0~F) 로터리(`rotaryGraphic`)를 패널 안에 작게 넣고 0번을 가리키게 했습니다. 어두운 패널 위라 눈금 글자를 밝게 바꾸는 옵션(`dark`)과 다른 그림 안에 넣는 옵션(`box`)을 추가했습니다. 그림 아래 표시는 "0번 선택" · "누름" · "깜빡임/깜빡이지 않음"입니다.
 - 로터리 표시 방식 재조정(사용자 요청 "이 느낌 로터리 써줘", EDID 설정 카드 화면 첨부): 어두운 패널 안에 작게 넣었던 로터리를 빼서, EDID 설정 카드의 대표 설정 그림과 같은 밝은 칸(흰 바탕, 회색 눈금 글자, 파란 로터리, "MODE 0번 선택")으로 따로 두고 "+" 뒤에 SET 버튼·LED만 있는 어두운 패널을 붙였습니다. 휴대폰(720px 이하)에서는 로터리 칸을 위에, 패널을 아래 전체 폭으로 둡니다. 로터리 그림의 화면 읽기 이름은 "MODE 로터리 0번"입니다(`rotaryGraphic(code,{name})`).
+- 최종 모양(사용자 요청 "분배기 로터리 이미지 그대로 활용해줘, 뭔가 어색해 통일감이 없어"): 병합·추출 칸 안에 따로 넣던 패널 그림을 빼고, 카드 설명 바로 아래에 EDID 설정 카드의 대표 설정 줄과 같은 칸(`rt-pg-rotary-row`·`rt-pg-rotary`, 회색 칸·112px 그림·파란 글자 캡션) 4개를 한 줄로 두었습니다: ① MODE 로터리 0번(EDID 카드와 같은 `rotaryGraphic`) → ② SET 누름(누를 때마다 병합 ↔ 추출) → 병합: OUT 1 LED 깜빡임 → 추출: OUT 1 LED 깜빡이지 않음. 휴대폰에서는 2칸씩 두 줄입니다. 앞 단계에서 만든 어두운 패널 그림과 `rotaryGraphic`의 `dark`·`box` 선택은 지웠습니다.
 - 화면: `docs/qa/hd13u-hd210u-screens/panel-desk.png`, `panel-mob.png`
 
 ## 3. HD-210U 07 딥 스위치 설정
